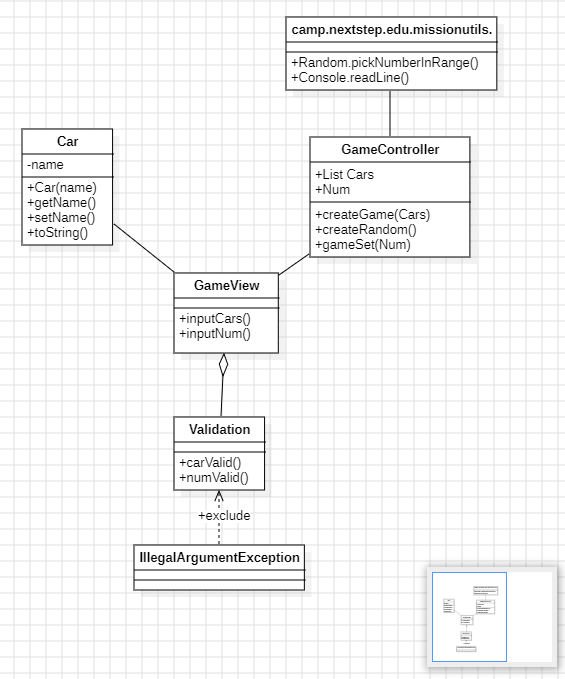
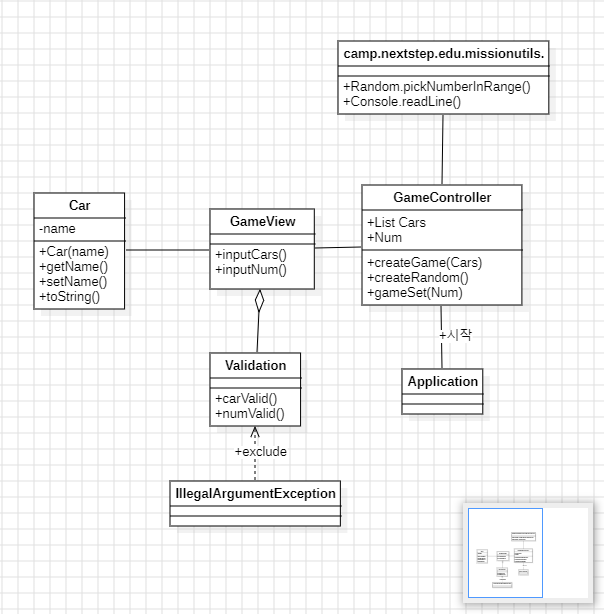
1차 기본 테스트 수행 완료

Changed region(s): [[0.0301, 0.0, 0.9327, 0.8974], [0.7522, 0.8046, 0.9929, 0.9902]]

diff --git a/src/main/java/racingcar/GameView.java b/src/main/java/racingcar/GameView.java
@@ -8,12 +8,14 @@ import java.util.List;
 public class GameView {
 //    입력 : 한 줄로 자동차들 입력, 자동차 리스트에 추가 하기.
     public List<Car> inputCars() throws IllegalArgumentException{
+        System.out.println("경주할 자동차 이름을 입력하세요.(이름은 쉼표(,) 기준으로 구분)");
         String inputCars = Console.readLine();
         return makeCarList(inputCars);
     }
 
 //    입력 : 게임 횟수
     public int inputNum() throws IllegalArgumentException{
+        System.out.println("시도할 회수는 몇회인가요?");
         int num = Integer.parseInt(Console.readLine());
         return Validation.numValid(num);
     }
@@ -30,4 +32,13 @@ public class GameView {
         }
         return carList;
     }
+
+    public void printSlash(int num){
+        for (int i=0;i<num;i++){
+            System.out.print("-");
+        }
+        System.out.println();
+    }
+
+
 }

diff --git a/src/main/java/racingcar/Car.java b/src/main/java/racingcar/Car.java
@@ -2,10 +2,16 @@ package racingcar;
 
 public class Car {
     private String name;
+    private int count;
     private Car(){
     }
     public Car(String name) {
         this.name = name;
+        this.count = 0;
+    }
+    public Car(String name, int count) {
+        this.name = name;
+        this.count = count;
     }
 
     public String getName() {
@@ -16,10 +22,19 @@ public class Car {
         this.name = name;
     }
 
+    public int getCount() {
+        return count;
+    }
+
+    public void setCount(int count) {
+        this.count = count;
+    }
+
     @Override
     public String toString() {
         return "Car{" +
                 "name='" + name + '\'' +
+                ", count=" + count +
                 '}';
     }
 }

diff --git a/src/main/java/racingcar/Application.java b/src/main/java/racingcar/Application.java
@@ -3,5 +3,9 @@ package racingcar;
 public class Application {
     public static void main(String[] args) {
         // TODO: 프로그램 구현
+        GameController gameController = new GameController();
+        gameController.createGame();
+        gameController.gameSet();
+
     }
 }

diff --git a/src/main/java/racingcar/Validation.java b/src/main/java/racingcar/Validation.java
@@ -1,7 +1,5 @@
 package racingcar;
 
-import camp.nextstep.edu.missionutils.Console;
-
 public class Validation {
 //    자동차 이름 검증 메서드
     public static boolean carValid(String name) throws IllegalArgumentException{

diff --git a/docs/README.md b/docs/README.md
@@ -73,11 +73,11 @@
 - 테스트 도구 사용법이 익숙하지 않다면 test/java/study를 참고하여 학습한 후 테스트를 구현한다.
 
 # 기능 목록 체크 리스트
-- [ ] 자동차 이름 작성 기능
-- [ ] 자동차들을 구분하는 기능
-- [ ] 자동차 출발/멈춤 기능 (랜덤하게)
-- [ ] 회차별 게임 진행 사항 출력 기능
-- [ ] 최종 우승자, 공동 우승자 출력 기능
+- [x] 자동차 이름 작성 기능
+- [x] 자동차들을 구분하는 기능
+- [x] 자동차 출발/멈춤 기능 (랜덤하게)
+- [x] 회차별 게임 진행 사항 출력 기능
+- [x] 최종 우승자, 공동 우승자 출력 기능
 - [ ] 사용자 입력(자동차 이름, 시도할 횟수)에 대한 예외 처리 기능
 
 ## 클래스 다이어그램 초기 구상도
